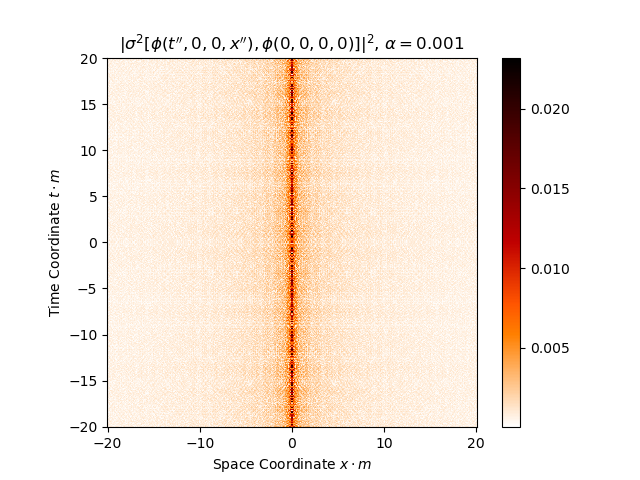
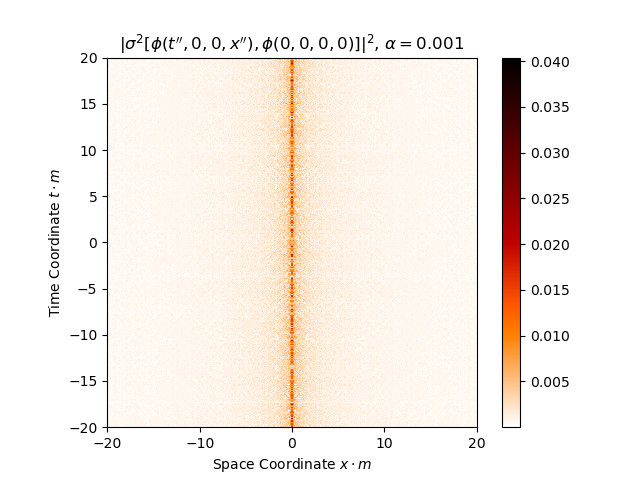
More output

diff --git a/commutators.py b/commutators.py
@@ -103,5 +103,5 @@ def run1(lim_x, lim_t, step, sigma, mass, label=None, log=False, show=True, hat_
 
 def run2(alpha):
     """ To be parallelized. """
-    run1(20, 20, 400, alpha, 1, log=False, show=False, hat_coords=True)
+    run1(20, 20, 1000, alpha, 1, log=False, show=False, hat_coords=True)
 
